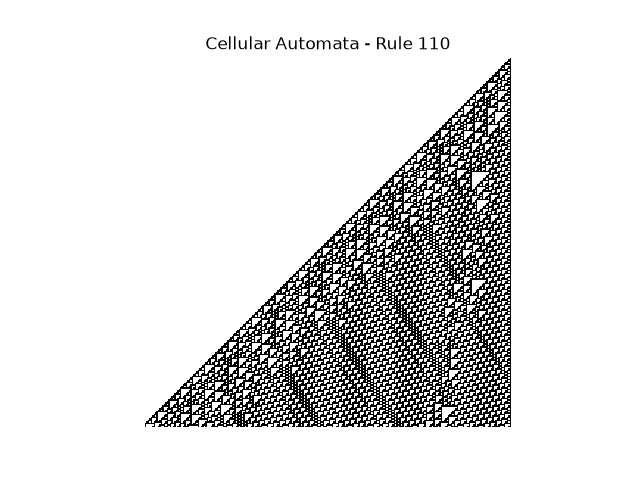
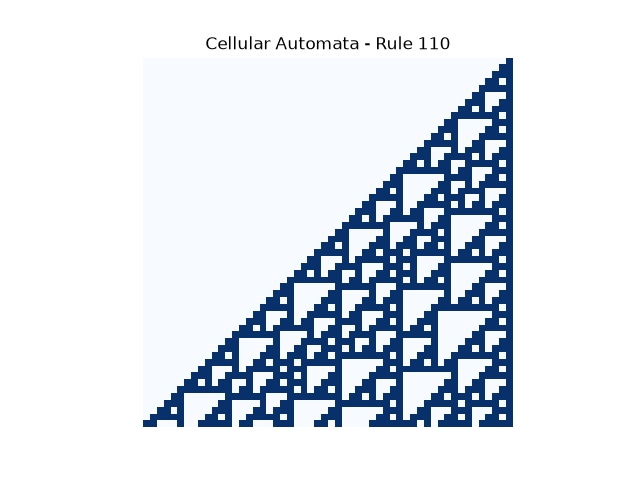
changed colour map for cellular automata plots

Changed region(s): [[0.2188, 0.125, 0.8125, 0.9062]]

diff --git a/src/research/automata/cellular/rule_30.py b/src/research/automata/cellular/rule_30.py
@@ -3,7 +3,7 @@ import numpy as np
 import matplotlib.pyplot as plt
 
 
-GRID_SIZE = 250
+GRID_SIZE = 50
 
 
 def rule_110(vals) -> int:
@@ -34,6 +34,6 @@ def main() -> None:
             cells[row, col] = rule_110(cells[row - 1, col - 1:col + 2])
 
     plt.title("Cellular Automata - Rule 30")
-    plt.imshow(cells[:GRID_SIZE // 2, :], interpolation = "none", cmap = "gray_r")
+    plt.imshow(cells[:GRID_SIZE // 2, :], interpolation = "none", cmap = "Blues")
     plt.gca().set_axis_off()
     plt.savefig("./output/research/automata/cellular/rule_30.png")

diff --git a/src/research/automata/cellular/rule_54.py b/src/research/automata/cellular/rule_54.py
@@ -3,7 +3,7 @@ import numpy as np
 import matplotlib.pyplot as plt
 
 
-GRID_SIZE = 250
+GRID_SIZE = 50
 
 
 def rule_110(vals) -> int:
@@ -34,6 +34,6 @@ def main() -> None:
             cells[row, col] = rule_110(cells[row - 1, col - 1:col + 2])
 
     plt.title("Cellular Automata - Rule 54")
-    plt.imshow(cells[:GRID_SIZE // 2, :], interpolation = "none", cmap = "gray_r")
+    plt.imshow(cells[:GRID_SIZE // 2, :], interpolation = "none", cmap = "Blues")
     plt.gca().set_axis_off()
     plt.savefig("./output/research/automata/cellular/rule_54.png")

diff --git a/src/research/automata/cellular/rule_110.py b/src/research/automata/cellular/rule_110.py
@@ -3,7 +3,7 @@ import numpy as np
 import matplotlib.pyplot as plt
 
 
-GRID_SIZE = 250
+GRID_SIZE = 55
 
 
 def rule_110(vals) -> int:
@@ -34,6 +34,6 @@ def main() -> None:
             cells[row, col] = rule_110(cells[row - 1, col - 1:col + 2])
 
     plt.title("Cellular Automata - Rule 110")
-    plt.imshow(cells, interpolation = "none", cmap = "gray_r")
+    plt.imshow(cells[:-2, 1:-1], interpolation = "none", cmap = "Blues")
     plt.gca().set_axis_off()
     plt.savefig("./output/research/automata/cellular/rule_110.png")
